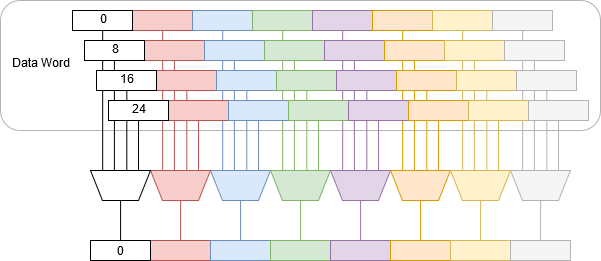
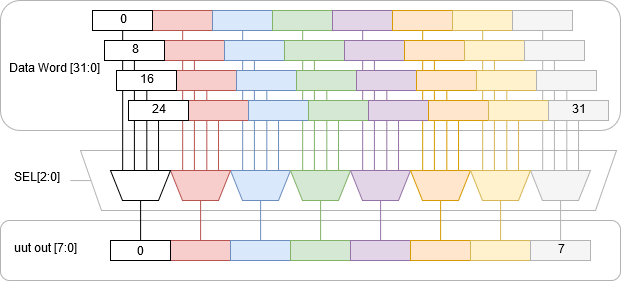
Changes from papeeria

diff --git a/5_test_bench.tex b/5_test_bench.tex
@@ -57,24 +57,26 @@ AXI4 protocol is designed for bidirectional communication, having separate write
 The main core of the Test Bench is the Test Engine which feeds the test vectors to the UUT and gathers the response vectors. It consist of two parts:
 \begin{itemize}
     \item memory interface which calculates successive addresses for words in the memory bank and stores them in the input register for one $clk_{bram}$ cycle. The addresses get incremented by $inc = width_{bram}/8$ due to the bytewise addressing scheme. The memory interface also handles the write back of the response once per $clk_{bram}$ cycle from the output register. The number of pipeline stages for data read operation has to be taken into account. The number of pipeline stages determines the delay in clock cycles when the information, stored under the address given in the address register, actually gets to the input register of the test engine. The detailed timing is showed in \autoref{fig:timing}.
-    \item data converter which reads input register and conducts parallel to parallel conversion where the input dimension is the $width_{bram}$ and the output dimension is the $width_{uut}$. The conversion process takes $k clk_{uut}$ cycles where $k$ is calculated as showed in~\autoref{eq:ratio}.
+    \item data downsize converter which reads input register and conducts parallel to parallel conversion where the input dimension is the $b=width_{bram}$ and the output dimension is the $u=width_{uut}$. The conversion process takes $k clk_{uut}$ cycles where $k$ is calculated as showed in~\autoref{eq:ratio}.
     \begin{equation}\label{eq:ratio}
     k = \frac{clk_{uut}}{clk_{bram}} = \frac{width_{bram}}{width_{uut}}
     \end{equation}
-    The Test Engine successively shifts the chunks of data through the design. With each $clk_{uut}$ cycle it gathers the response and recombines the original structure with another parallel to parallel conversion, this time having the opposite dimension ratio. The test vector and response vector have always the same width, although the number of UUT inputs and outputs may vary. It is necessary to connect the unused ports of data demultiplexer to a known constant value.
+    The Test Engine successively shifts the $u$ size chunks of data through the design. With each $clk_{uut}$ cycle new data is placed on the input of UUT and new response gathered. The upsize converter recombines the $u$ size responses into $b$ size word with another parallel to parallel conversion. The test vector and response vector have always the same width $u$, although the number of UUT inputs and outputs may vary. It is necessary to connect the unused ports of the Test Engine to a known constant value.
 \end{itemize}
-The multiplexing can be built using MUXes that choose which part of the input register should be routed to the UUT input or eith shift register with parallel input.
+The downsize conversion can be accomplished using a big multiplexer, which $b$ number of inputs and $u$ number of outputs. The multiplexing can be also achieved with 8 k-to-1 MUXes, which is how the synthesis tool in Vivado handles this problem. The multiplexer solution is show in \autoref{fig:mux}.
 
-\begin{figure}[H]
+Another way of conducting a donwsize conversion is by splitting it to many parallel to serial conversions. Such conversions are done using shift registers with parallel inputs but serial outputs.
+
+\begin{figure}[h]
 \centering
 \includegraphics[width=0.65\textwidth]{figures/MUX.png}
 \caption{MUX}
 \label{fig:mux}
 \end{figure}
 
-\begin{figure}[H]
+\begin{figure}[h]
 \centering
-\includegraphics[width=\textwidth]{figures/Shift.png}
+\includegraphics[width=0.65\textwidth]{figures/Shift_2.png}
 \caption{Shift register}
 \label{fig:shift}
 \end{figure}
